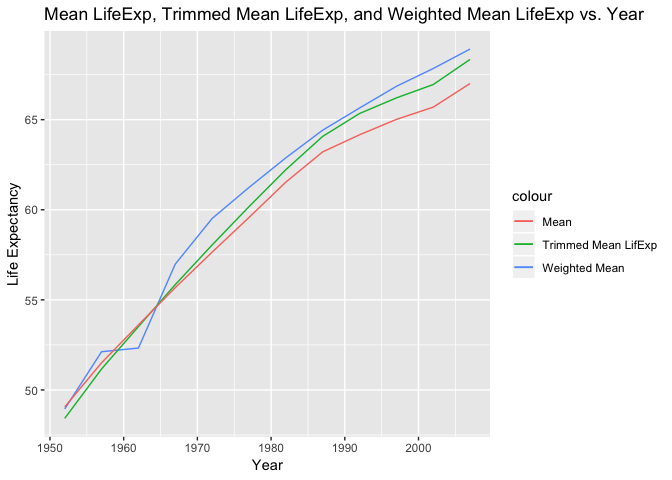
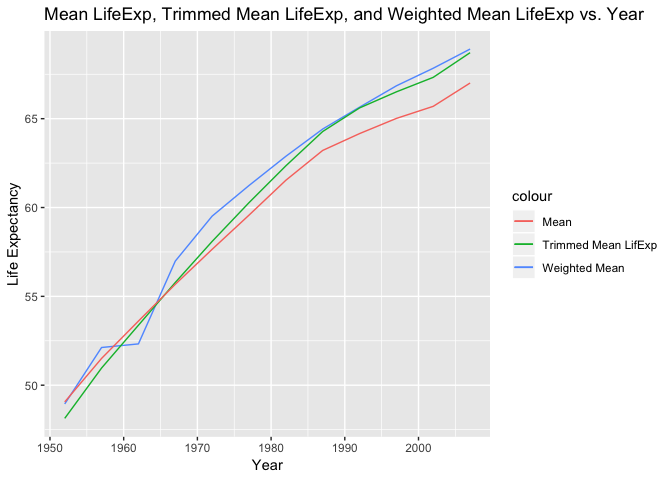
Commit number 4

diff --git a/hw03.md b/hw03.md
@@ -18,19 +18,23 @@ suppressPackageStartupMessages(library(tidyverse))
 suppressPackageStartupMessages(library(gapminder))
 ```
 
-Now let’s analyze some data.
+Now let’s analyze some
+data.
 
 # Task 1
 
-## Get the maximum and minimum of GDP per capita for all continents.
+#### For our first task we will: **Get the maximum and minimum of GDP per capita for all continents.**
 
 First lets assign the minimum and maximum GDP per capita, grouped by
-continents, to variable `GDPcont`.
+continents, to variable `GDPcont`. For ease of understanding I will be
+defining some functions as we go along. The `group_by()` is **used to
+take an existing tbl and converts it into a grouped tbl where operations
+are performed.**
 
 ``` r
 GDPcont <- gapminder %>%
-  group_by(continent) %>%
-  summarize(min = min(gdpPercap), max = max(gdpPercap))
+  group_by(continent) %>% #organized by continent
+  summarize(min = min(gdpPercap), max = max(gdpPercap)) #defining the min and max for gdpPercap
 
 knitr::kable(GDPcont)
 ```
@@ -43,22 +47,26 @@ knitr::kable(GDPcont)
 | Europe    |   973.5332 |  49357.19 |
 | Oceania   | 10039.5956 |  34435.37 |
 
-Now let’s create some plots. For the first plot we will look at the
-minimum GDP per capita for each continent.
+The `knitr::kable` function is useful to make our tables more
+asethetically pleasing.
+
+Now let’s create some plots using the `ggplot2` data visualization tool.
+For the first plot we will look at the minimum GDP per capita for each
+continent.
 
 ``` r
 ggplot(GDPcont, aes(continent, min)) + 
   geom_bar(stat = "identity", color = "red", fill = "red") + 
-  scale_y_log10() +
-  ggtitle("Minimum GDP per Capita for Each Continent") + 
-  ylab("Minimum GDP per Capita") +
-  xlab("Continent")
+  scale_y_log10() + #this applies a log scale on the y-axis
+  ggtitle("Minimum GDP per Capita for Each Continent") + #this adds a title to the graph
+  ylab("Minimum GDP per Capita") + #this labels the y-axis
+  xlab("Continent") #this labels the x-axis
 ```
 
 ![](hw03_files/figure-gfm/unnamed-chunk-3-1.png)<!-- -->
 
 We can do the same for the maximum GDP per capita values for each
-continent
+continent:
 
 ``` r
 ggplot(GDPcont, aes(continent, max)) + 
@@ -70,11 +78,14 @@ ggplot(GDPcont, aes(continent, max)) +
 
 ![](hw03_files/figure-gfm/unnamed-chunk-4-1.png)<!-- -->
 
-QUESTION: HOW TO PLOT THEM TOGETHER
-
 # Task 2
 
-## Look at the spread of GDP per capita within the continents.
+#### Look at the spread of GDP per capita within the continents.
+
+Violin plots are great to visualize the spread of the data. Below we
+have used continent as the x-variable, whereas we used gdpPercap, as the
+y-variable. The alpha value is specificed to 0.1 and can tell us
+visually the density of each point.
 
 ``` r
 ggplot(gapminder, aes(continent, gdpPercap, fill=continent)) + 
@@ -91,10 +102,21 @@ ggplot(gapminder, aes(continent, gdpPercap, fill=continent)) +
 
 # Task 3
 
-## Compute a trimmed mean of life expectancy for different years. Or a weighted mean, weighting by population.
+#### Compute a trimmed mean of life expectancy for different years. Or a weighted mean, weighting by population.
+
+For this task we need to use the `trim` function. `trim` is essentially
+used to trim the data to a certain specificed value. For example if we
+set the trim to 0.16, it will cut off 16% of the data from the bootom
+and top of the data. Interestingly, this would mean that it would
+represent one standard if the trim is set to 0.16.
+
+Below we created a new dataset called `trimmed_mean`. The data was piped
+from `gapminder`, grouped by the year, and summarized into two other
+variables Untrimmed Mean LifeExp (regular mean for each continent) and
+TrimmedMeanLifExp.
 
 ``` r
-trimmed_mean <- gapminder %>% group_by(year) %>% summarize("Untrimmed Mean LifeExp" = mean(lifeExp), TrimmedMeanLifExp = mean(lifeExp,trim = 0.125)) %>% arrange(year)
+trimmed_mean <- gapminder %>% group_by(year) %>% summarize("Untrimmed Mean LifeExp" = mean(lifeExp), TrimmedMeanLifExp = mean(lifeExp,trim = 0.16)) %>% arrange(year)
 
 trimmed_mean
 ```
@@ -102,21 +124,20 @@ trimmed_mean
     ## # A tibble: 12 x 3
     ##     year `Untrimmed Mean LifeExp` TrimmedMeanLifExp
     ##    <int>                    <dbl>             <dbl>
-    ##  1  1952                     49.1              48.4
-    ##  2  1957                     51.5              51.2
-    ##  3  1962                     53.6              53.5
+    ##  1  1952                     49.1              48.1
+    ##  2  1957                     51.5              51.0
+    ##  3  1962                     53.6              53.4
     ##  4  1967                     55.7              55.8
-    ##  5  1972                     57.6              58.0
-    ##  6  1977                     59.6              60.2
-    ##  7  1982                     61.5              62.2
-    ##  8  1987                     63.2              64.1
-    ##  9  1992                     64.2              65.3
-    ## 10  1997                     65.0              66.2
-    ## 11  2002                     65.7              66.9
-    ## 12  2007                     67.0              68.3
+    ##  5  1972                     57.6              58.1
+    ##  6  1977                     59.6              60.3
+    ##  7  1982                     61.5              62.3
+    ##  8  1987                     63.2              64.3
+    ##  9  1992                     64.2              65.6
+    ## 10  1997                     65.0              66.5
+    ## 11  2002                     65.7              67.3
+    ## 12  2007                     67.0              68.7
 
-trimming by 12.5% would discard the minimum and maximum value in the
-sample
+We will now go ahead and plot the trimmed mean lifeExp for each year.
 
 ``` r
 ggplot(trimmed_mean, aes(year, TrimmedMeanLifExp)) +
@@ -128,8 +149,11 @@ ggplot(trimmed_mean, aes(year, TrimmedMeanLifExp)) +
 
 ![](hw03_files/figure-gfm/unnamed-chunk-7-1.png)<!-- -->
 
-weighted mean, weighting by
-population
+Another intersting function we could use is `weighted.mean()`. Weighted
+mean is a kind of average, however, some variables can contribute more
+weight to specific numbers. In this example we use the weighted mean of
+lifeExp and population
+together.
 
 ``` r
 weightedmean_lifeExp <- gapminder %>% group_by(year) %>% summarize("Mean" = mean(lifeExp), weightedmean = weighted.mean(lifeExp, pop))
@@ -153,11 +177,13 @@ weightedmean_lifeExp
     ## 11  2002  65.7         67.8
     ## 12  2007  67.0         68.9
 
-Combining
-everything
+The trimmed mean graph wasn’t that useful because we weren’t able to
+combine different data. Below we combine the mean, trimmed mean lifeExp
+(where trim = 0.16), and the weighted average
+together.
 
 ``` r
-combineddata <- gapminder %>% group_by(year) %>% summarize( Mean = mean(lifeExp), weightedmean = weighted.mean(lifeExp, pop), TrimmedMeanLifExp = mean(lifeExp,trim = 0.125))
+combineddata <- gapminder %>% group_by(year) %>% summarize( Mean = mean(lifeExp), weightedmean = weighted.mean(lifeExp, pop), TrimmedMeanLifExp = mean(lifeExp,trim = 0.16))
 
 combineddata
 ```
@@ -165,18 +191,21 @@ combineddata
     ## # A tibble: 12 x 4
     ##     year  Mean weightedmean TrimmedMeanLifExp
     ##    <int> <dbl>        <dbl>             <dbl>
-    ##  1  1952  49.1         48.9              48.4
-    ##  2  1957  51.5         52.1              51.2
-    ##  3  1962  53.6         52.3              53.5
+    ##  1  1952  49.1         48.9              48.1
+    ##  2  1957  51.5         52.1              51.0
+    ##  3  1962  53.6         52.3              53.4
     ##  4  1967  55.7         57.0              55.8
-    ##  5  1972  57.6         59.5              58.0
-    ##  6  1977  59.6         61.2              60.2
-    ##  7  1982  61.5         62.9              62.2
-    ##  8  1987  63.2         64.4              64.1
-    ##  9  1992  64.2         65.6              65.3
-    ## 10  1997  65.0         66.8              66.2
-    ## 11  2002  65.7         67.8              66.9
-    ## 12  2007  67.0         68.9              68.3
+    ##  5  1972  57.6         59.5              58.1
+    ##  6  1977  59.6         61.2              60.3
+    ##  7  1982  61.5         62.9              62.3
+    ##  8  1987  63.2         64.4              64.3
+    ##  9  1992  64.2         65.6              65.6
+    ## 10  1997  65.0         66.8              66.5
+    ## 11  2002  65.7         67.8              67.3
+    ## 12  2007  67.0         68.9              68.7
+
+Now since we have our dataset, `combineddata`, we could go ahead and
+plot it below.
 
 ``` r
 combineddata %>% 
@@ -191,6 +220,54 @@ combineddata %>%
 
 ![](hw03_files/figure-gfm/unnamed-chunk-10-1.png)<!-- -->
 
+It is interesting to note that the weighted lifeExp goes down from both
+the trimmed mean and the normal mean of the data. This indicates that
+the weighted average of the population went down as a function of the
+lifeExp.
+
 # Task 4
 
-## How is life expectancy changing over time on different continents?
+#### How is life expectancy changing over time on different continents?
+
+``` r
+  ggplot(gapminder, aes(x = year, y = lifeExp, colour = continent)) +
+  geom_point(alpha=0.3) +
+  geom_smooth() +
+  ylab("Life Expectancy") +
+  xlab("Year") +
+  ggtitle("Life Expectancy Changing Over Time on Different Continents")
+```
+
+    ## `geom_smooth()` using method = 'loess' and formula 'y ~ x'
+
+![](hw03_files/figure-gfm/unnamed-chunk-11-1.png)<!-- -->
+
+# Task 5
+
+``` r
+combineddata2 <- gapminder %>% group_by(continent) %>% summarize(Mean = mean(lifeExp), weightedmean = weighted.mean(lifeExp, pop), TrimmedMeanLifExp = mean(lifeExp,trim = 0.125), medianlifeExp= median(lifeExp))
+
+combineddata2
+```
+
+    ## # A tibble: 5 x 5
+    ##   continent  Mean weightedmean TrimmedMeanLifExp medianlifeExp
+    ##   <fct>     <dbl>        <dbl>             <dbl>         <dbl>
+    ## 1 Africa     48.9         50.6              48.2          47.8
+    ## 2 Americas   64.7         69.5              65.7          67.0
+    ## 3 Asia       60.1         61.1              60.8          61.8
+    ## 4 Europe     71.9         72.3              72.4          72.2
+    ## 5 Oceania    74.3         75.5              74.1          73.7
+
+``` r
+ggplot(combineddata2, aes(continent)) +
+  geom_jitter(aes(y = weightedmean, colour = "Weighted Mean")) +
+  geom_jitter(aes(y = TrimmedMeanLifExp, colour = "Trimmed Mean LifExp")) +
+  geom_jitter(aes(y = Mean, colour = "Mean")) +
+  geom_jitter(aes(y = medianlifeExp, colour = "Median LifeExp")) +
+  ylab("Life Expectancy") +
+  xlab("Year") +
+  ggtitle("Weighted Mean, Trimmed Mean, Mean, and Median Life Expectancy")
+```
+
+![](hw03_files/figure-gfm/unnamed-chunk-13-1.png)<!-- -->
